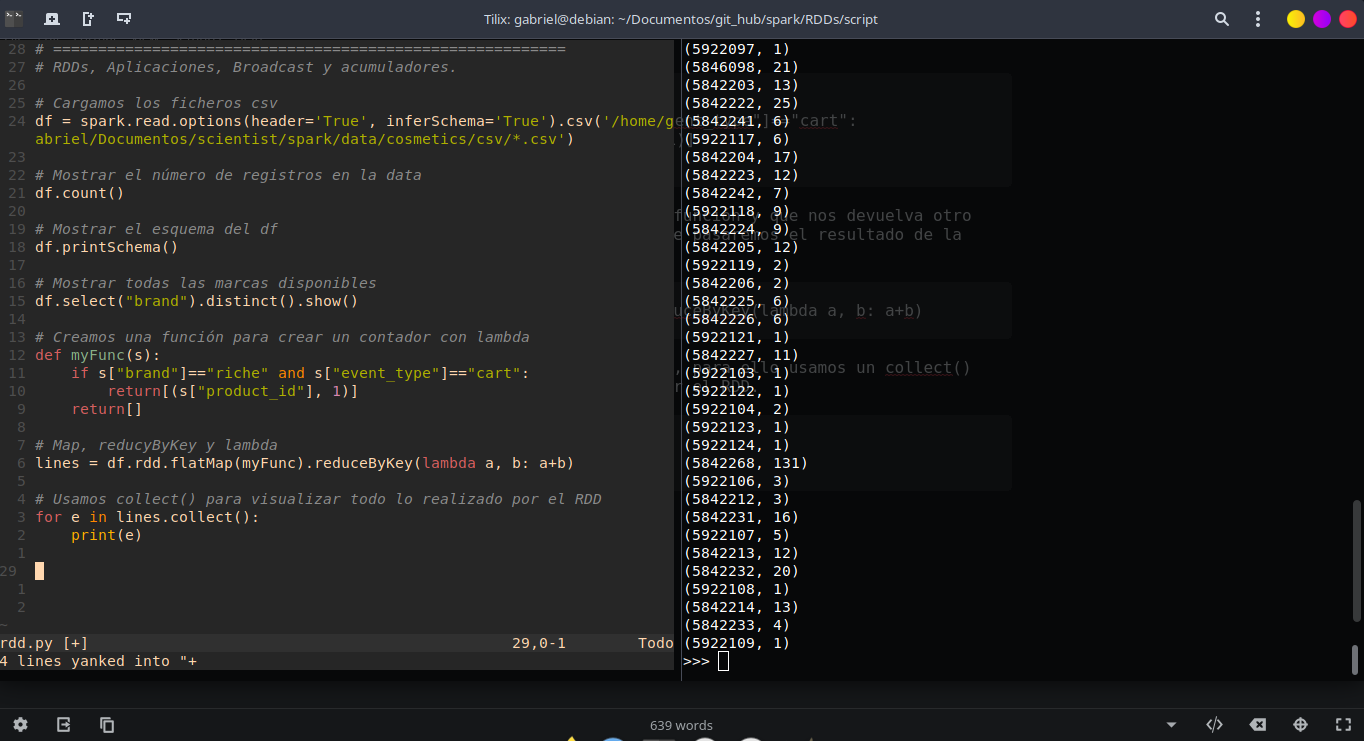
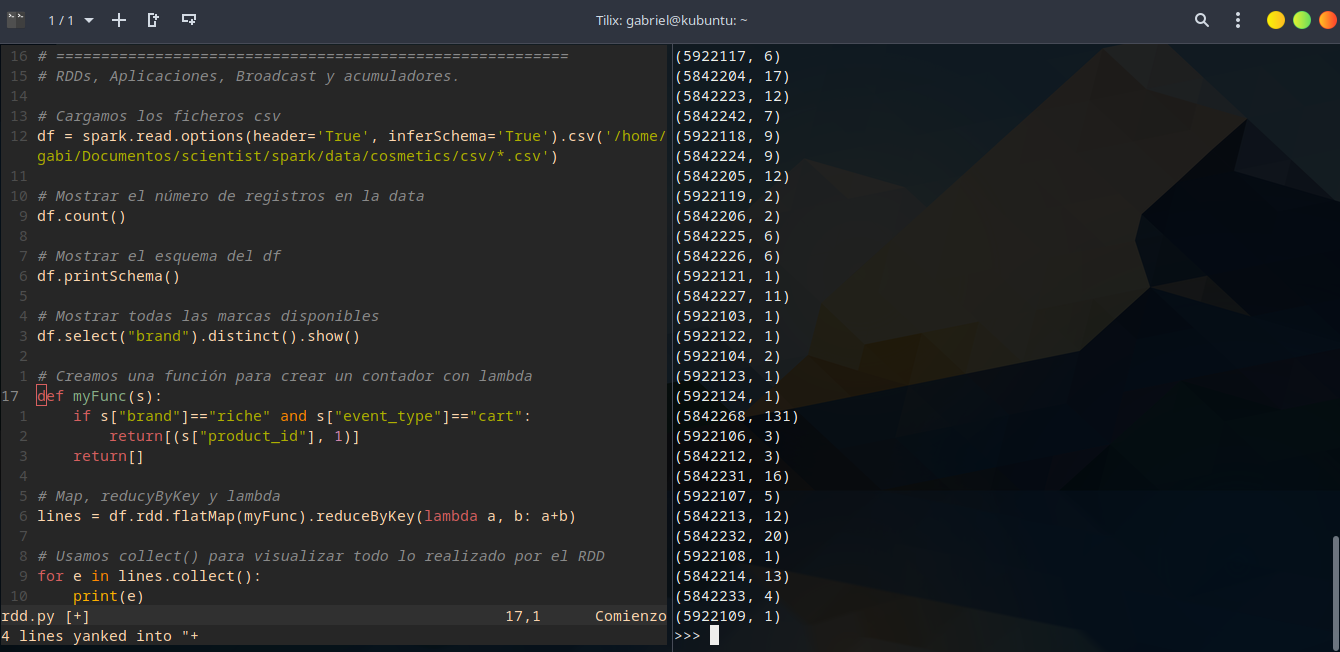
update README file, and add image

diff --git a/RDDs/script/rdd.py b/RDDs/script/rdd.py
@@ -2,7 +2,7 @@
 # RDDs, Aplicaciones, Broadcast y acumuladores.
 
 # Cargamos los ficheros csv
-df = spark.read.options(header='True', inferSchema='True').csv('/home/gabriel/Documentos/scientist/spark/data/cosmetics/csv/*.csv')
+df = spark.read.options(header='True', inferSchema='True').csv('/home/gabi/Documentos/scientist/spark/data/cosmetics/csv/*.csv')
 
 # Mostrar el número de registros en la data
 df.count()
@@ -33,7 +33,7 @@ print(lines.take(20))
 lines.toDF().show()
 
 # Guardar la lista en un directorio
-lines.saveAsTextFile("/home/gabriel/Documentos/scientist/spark/data/cosmetics/result2")
+lines.saveAsTextFile("/home/gabi/Documentos/scientist/spark/data/cosmetics/result2")
 
 
 

diff --git a/RDDs/README.md b/RDDs/README.md
@@ -24,9 +24,9 @@ Abrimos nuestra PySpark shell ejecutando pyspark.
 pyspark
 ```
 
-![](https://raw.githubusercontent.com/gabrielfernando01/spark/master/image/export_paths.png)
+![](https://raw.githubusercontent.com/gabrielfernando01/spark/master/image/spark_shell.png)
 
-Usamos el mismo conjunto de datos, el cual descargamos de la página de [kaggle-data](https://www.kaggle.com/datasets/mkechinov/ecommerce-events-history-in-cosmetics-shop) y cargamos estos ficheros. Recordar el lugar donde hayamos colocados los ficheros, que es la parte que tenemos que sustituir en path.
+Usamos el mismo conjunto de datos, el cual descargamos de la página de [kaggle-data](https://www.kaggle.com/datasets/mkechinov/ecommerce-events-history-in-cosmetics-shop) y cargamos estos ficheros. Mandandolos a llamar desde el path de nuestra máquina.
 
 ```
 df = spark.read.options(header='True', inferSchema='True').csv('<path>/*.csv')
@@ -55,7 +55,6 @@ De las marcas disponibles, tomemos una, en este caso "riche". Encontremos ahora 
 
 ***
 ### Operaciones con RDDs
-Operaciones RDD
 
 Los RDD admiten dos tipos de operaciones: _transformaciones_, que crean un nuevo conjunto de datos a partir de uno existente, y acciones, que devuelven un valor al programa controlador después de ejecutar un cálculo en el conjunto de datos. Por ejemplo, el mapa es una transformación que pasa cada elemento del conjunto de datos a través de una función y devuelve un nuevo RDD que representa los resultados. Por otro lado, _reduce_ es una acción que agrega todos los elementos del RDD usando alguna función y devuelve el resultado final al programa controlador (aunque también existe un **reduceByKey** paralelo que devuelve un conjunto de datos distribuido).
 
@@ -64,7 +63,7 @@ Todas las transformaciones en Spark son _lazy_, ya que no calculan sus resultado
 De forma predeterminada, cada RDD transformado se puede volver a calcular cada vez que ejecuta una acción en él. Sin embargo, también puede conservar un RDD en la memoria usando el método persistente (o caché), en cuyo caso Spark mantendrá los elementos en el clúster para un acceso mucho más rápido la próxima vez que lo consulte. También hay soporte para RDD persistentes en el disco o replicados en múltiples nodos.
 ***
 
-Para la siguiente tarea usaremos una _lambda_, aunque para ello en PySpark necesitamos definir primero una función para hacer el contador que ocupamos.
+Para la siguiente tarea usaremos una _lambda_, aunque para ello PySpark necesitamos definir primero una función para un contador que ocuparemos.
 
 ```
 def myFunc(s):
@@ -102,7 +101,7 @@ Que más podemos hacer para mostrar la lista. Podemos convertir el RDD en un dat
 lines.toDF().show()
 ```
 
-Guardemos la lista en una carpeta.
+Guardemos la lista en una carpeta, en mi caso la nombre 'result2'.
 
 ```
 lines.saveAsTextFile("<path/directory_name>")
@@ -114,9 +113,7 @@ Debes de obtener un resultado similar al siguiente:
 
 ### Ejecutar una API desde un clúster en Spark Web Interface.
 
-Para ello mandaremos llamar al master apoyado con un proceso ./spark-submit ubicado en el directorio /opt/spark/bin de Spark.
-
-Recordar que cuando descomprimimos el archivo de instalación, los ficheros se movieron al directorio /opt del directorio root. Esta API lleva el nombre de app1.py y debe ser guardado en el directorio \</opt/spark/bin/\>.
+Para ello mandaremos llamar al master apoyado con un proceso ./spark-submit ubicado en el directorio /opt/spark/bin de Spark. En otras palabras, creamos un script de nombre app1.py y para ejecutarlo lo guardamos en el directorio \<origin\>/bin/
 
 ```
 import sys
@@ -124,25 +121,32 @@ from pyspark.sql import SparkSession
 
 spark = SparkSession.builder.getOrCreate()
 
-df = spark.read.option(header='True', inferSchema='True').csv(sys.arg[1])
+df = spark.read.options(header='True', inferSchema='True').csv(sys.argv[1])
 
 def myFunc(s):
-	if s["brand"]=="riche" and s["even_type"]=="cart":
-		return[(s["product_id"], 1)
-	return[]
-	
-lines = df.rdd.flatMap(myFunc).reduceByKey(lambda: a, b: a+b)
+    if s["brand"]=="riche" and s["event_type"]=="cart":
+        return[(s["product_id"], 1)]
+    return[]
 
-lines.saveAsText.File(sys.arg[2])
+lines = df.rdd.flatMap(myFunc).reduceByKey(lambda a, b: a+b)
+
+lines.saveAsTextFile(sys.argv[2])
 ```
 
-donde arg[1] y arg[2] son los directorios de entrada y salida correspondientemente. Los cuales le pasaremos cuando ejecutemos la aplicación.
+donde argv[1] y argv[2] son los directorios de entrada y salida correspondientemente. Los cuales le pasaremos cuando ejecutemos la aplicación y deben ir entre comillas.
 
-Para ejecutarlo llamamos al proceso ./spark-submit seguido de la url de nuestro Spark Web Interface, que en mi caso es spark://debian:7077, en seguida la \<app.1\> y finalmente los dos argumentos que son las rutas de entrada y salida en nuestra máquina. En mi terminal se observa de la siguiente manera:
+Para ejecutarlo llamamos al proceso ./spark-submit seguido de, --master local[4] que es lo que haré en este ejemplo, en seguida la el script .py que en mi caso lo nombre app1.py y finalmente los dos argumentos entre comillas, que son las rutas de entrada y salida en nuestra máquina, en el caso del argv[2] debes darle un nombre a la carpeta donde se depositarán los ficheros, en mi caso, la nombro _result3_. En mi terminal se observa de la siguiente manera:
 
-![](https://raw.githubusercontent.com/gabrielfernando01/spark/master/RDDs/image/enter_app.png)
+![](https://raw.githubusercontent.com/gabrielfernando01/spark/master/RDDs/image/app1.png)
 
-También revisamos los procesos del worker por la Spark Web Interface, en la imagen se ven varios procesos ejecutados con su descripción, los cuales fueron intentos fallidos por errores de dedo en el fichero app1.py
+Exiten varias maneras de ejecutar el script .py. Si hiciste la intalación de **Spark** por medio de **PyPI** puedes ejecutar el script desde la terminila con tan solo escribir:
+
+```
+$ python3 app1.py
+```
+
+
+Para lo anterior, el fichero app1.py debe estar guardado en el \<HOME\> de tu computadora. Por otro lado si ejecutas el script usando el panel **Spark UI** debes de inserta; en el directorio \<HOME\/bin$> ./spark-submit --master \<URL\>, en mi caso es, spark://gabi-HP-Stream-Laptop-14-ax1xxx:7077 y entre comillas los directorios argv[1], argv[2], de esta manera el worker indicara los procesos ejecutados con su descripción.
 
 ![](https://raw.githubusercontent.com/gabrielfernando01/spark/master/RDDs/image/worker.png)
 

diff --git a/README.md b/README.md
@@ -9,9 +9,9 @@ En este turorial, mostrare como **instalar Spark en una distribución Debian o U
 
 ### Prerequisitos
 
-- Un SO Debian o Ubuntu
-- Acceso a la linea de comandos o terminal
-- Un usuario con permisos sudo o **root**
+- Un SO Debian o sus derivadas.
+- Acceso a la linea de comandos o terminal.
+- Un usuario con permisos sudo o **root**.
 
 ## Instalar los paquetes requeridos por Spark
 
@@ -27,16 +27,17 @@ Abrimos una terminal y corremos el siguiente comando para la instalación de las
 sudo apt install default-jdk scala git -y
 ```
 
-Una vez que el proceso este completado, **verica que las dependencias esten instaladas** corriendo el siguiente comando:
+Una vez que el proceso este completado, **verifica que las dependencias esten instaladas** corriendo el siguiente comando:
 
 ``` javascript
 java -version; javac -version; scala -verison; git --version
 ```
-Se imprimiran las salida con la versiones correspondientes si la instalación por todos las paqueterías fue exitosa.
 
-## Descargar y Configurar Spark en Debian o Ubunto.
+Se imprimirán las salida con la versiones correspondientes, si la instalación por todos las paqueterías fue exitosa.
 
-Ahora, necesitamos descargar la version de Spark que quieras y este disponible desde el sitio web oficial. Al momento de editar este texto la versión más actualizada es $Spark 3.2.1$ (Enero 26 2022) conjuntamente con la paquetería $Hadoop 3.3$.
+## Descargar y Configurar Spark en Debian o Ubuntu.
+
+Ahora, necesitamos descargar la versión de Spark que quieras y este disponible desde el sitio web oficial. Al momento de editar este texto la versión más actualizada es _Spark 3.2.1_ (Enero-26-2022) conjuntamente con la paquetería _Hadoop 3.2_.
 
 Usamos el comando **wget** junto con la liga del sitio  para la descarga de nuestro archivo Spark:
 
@@ -51,11 +52,12 @@ wget https://dlcdn.apache.org/spark/spark-3.2.1/spark-3.2.1-bin-hadoop3.2.tgz
 Ahora, extraemos el archivo guardado usando _tar:_
 
 ``` javascript
-wget https://dlcdn.apache.org/spark/spark-3.2.1/spark-3.2.1-bin-hadoop3.2.tgz
+tar xvf spark-*
 ```
+
 Deje que el proceso se complete. La salida muestra los ficheros que se están desempaquetando desde el archivo.
 
-Finalmente, movemos el directorio desempaquetado $spark-3.2.1-bin-hadoop3.2 al directorio _**opt/spark**_.
+Finalmente, movemos el directorio desempaquetado spark-3.2.1-bin-hadoop3.2 al directorio _**opt/spark**_.
 
 Usando el comando **mv** para cortar y pegar: 
 

diff --git a/dataFrames/README.md b/dataFrames/README.md
@@ -1,7 +1,7 @@
 # DataFrame y RDDs
 ## Proyecto cross selling
 
-El siguiente proyecto da los primeros pasos de commo cargar, y manipular ficheros tipo csv en **Apache Spark** utilizando **PySpark** para ello vamos a testear con la terminal con el paquete que ya vimos [Instalación de Spark](https://github.com/gabrielfernando01/spark/blob/master/README.md).
+El siguiente proyecto da los primeros pasos de como cargar, y manipular ficheros tipo csv en **Apache Spark** utilizando **PySpark** para ello vamos a testear con la terminal con el paquete instalado en la carpeta. [Instalación de Spark](https://github.com/gabrielfernando01/spark/blob/master/README.md).
 
 Lo primero que haremos es descargar los archivos .csv con los que vamos a trabajar, estos los encontraremos en el repositorio de Kaggle en la siguiente dirección [kaggle-data](https://www.kaggle.com/datasets/mkechinov/ecommerce-events-history-in-cosmetics-shop). Son 5 archivos de nombre:
 
@@ -71,7 +71,7 @@ Ahora que ya conocemos _tipo de evento_ y _marcas_. Si queremos encontrar los o 
 df.select(["product_id"]).filter("event_type='cart'").show()
 ```
 
-Nos da una lista de productos, que han sido metidos al carrito. Escogamos el primero de la lista.
+Nos da una lista de productos, que han sido metidos al carrito. Escogemos el primero de la lista.
 
 ```
 df.select(["product_id"]).filter("event_type='cart'").first()
@@ -85,7 +85,7 @@ He escogido este producto 4958 (únicamente tome el primero de la lista), estoy 
 sessions = df.select(["user_session"]).filter("event_type='cart' AND product_id=4958")
 ```
 
-Ahora vamos a tomar todos los productos que distintos a nuestro producto original 4958 que estan en la lista u objeto sessions.
+Ahora vamos a tomar todos los productos distintos a nuestro producto original 4958 que están en la lista u objeto sessions.
 
 ```
 products = df.select(["product_id"]).filter("event_type='cart' AND product_id<>4958").filter(df["user_session"].isin(sessions["user_sessions]))
@@ -97,7 +97,7 @@ Tenemos la lista de productos que han sido tomadas en carrito conjuntamente con 
 products.select("product_id").show()
 ```
 
-En consola nos muestra los primeros 20 productos. Queremos saber que productos son, necesitos una lista de productos unicos.
+En consola nos muestra los primeros 20 productos. Queremos saber que productos son, necesitos una lista de productos únicos.
 
 ```
 products = products.select("product_id").distinct()
